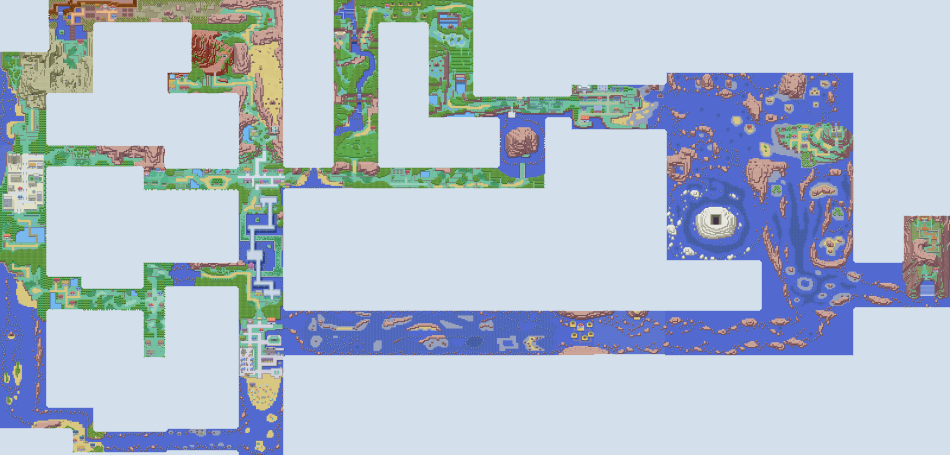
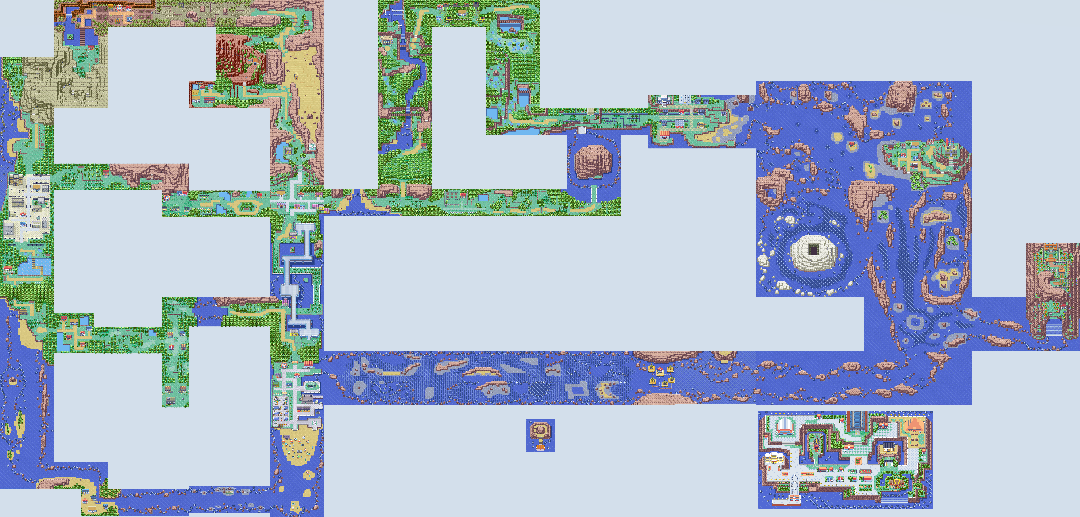
add frontier and naval island to the map

Changed region(s): [[0.0, 0.0, 1.0, 1.0]]

diff --git a/locations.css b/locations.css
@@ -1193,12 +1193,12 @@
 /*** Islands ***/
 /*Battle Frontier*/
 #BATTLE_FRONTIER {
-	top: 79.78021978021978%;
-	left: 82.73684210526316%;
+	top: 93.934399208%;
+	left: 75.2051767677%;
 }
 
 /*Navel Rock*/
 #HIDDEN_ITEM_NAVEL_ROCK_TOP_SACRED_ASH {
-	top: 79.78021978021978%;
-	left: 44.0%;
+	top: 83.715180484%;
+	left: 50.047348484%
 }
